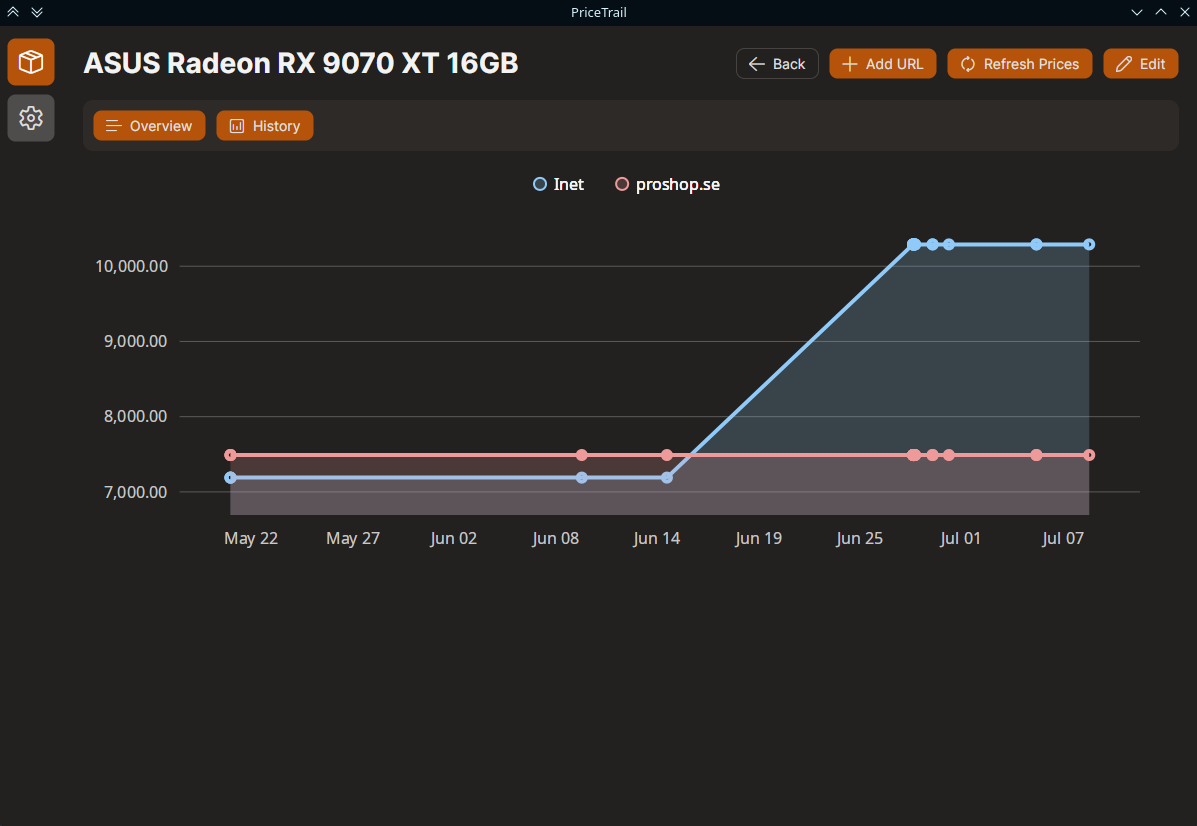
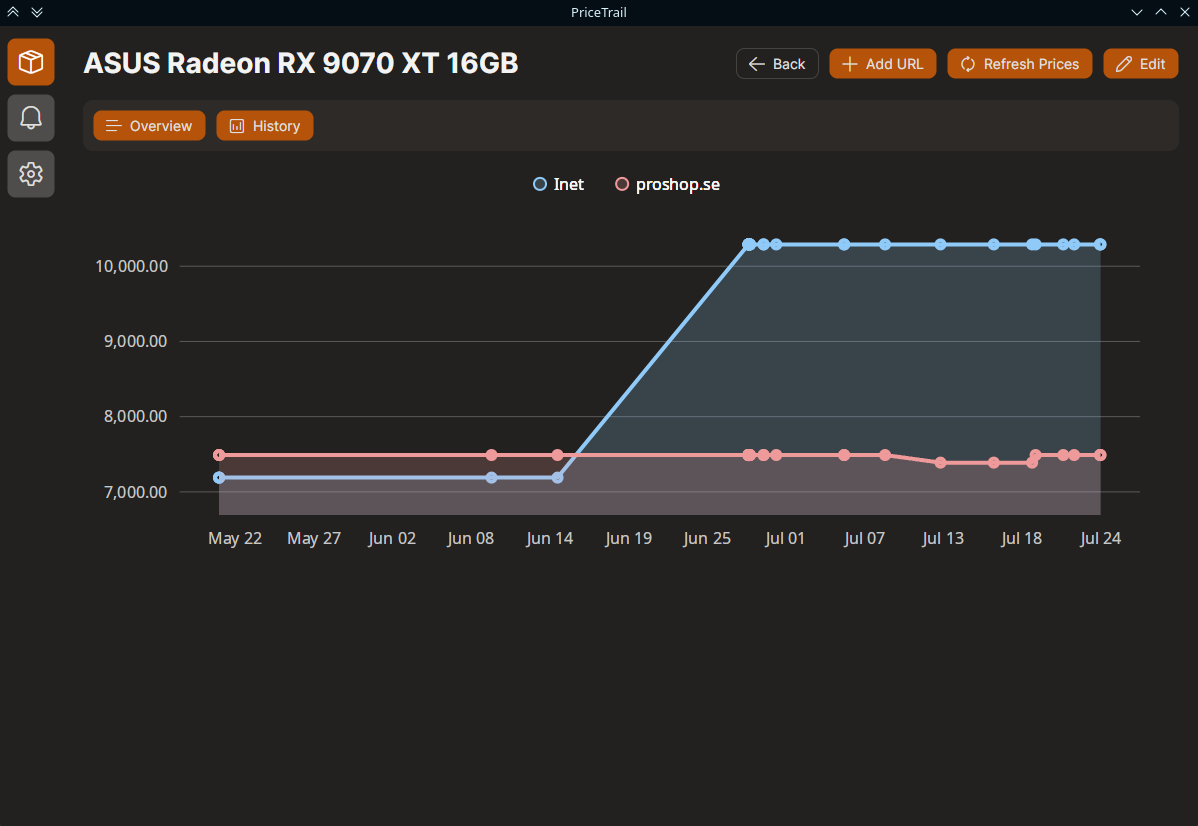
Updated README

diff --git a/README.md b/README.md
@@ -14,11 +14,11 @@ Add product URLs from different stores, and PriceTrail will automatically extrac
 - Automatic price extraction using JSON-LD
 - Price history tracking
 - Automatic price refreshes
+- Price alerts
 
 ## Planned Features
 
 - Improved UI (visuals and features)
-- Price notifications
 
 ## Screenshots
 
